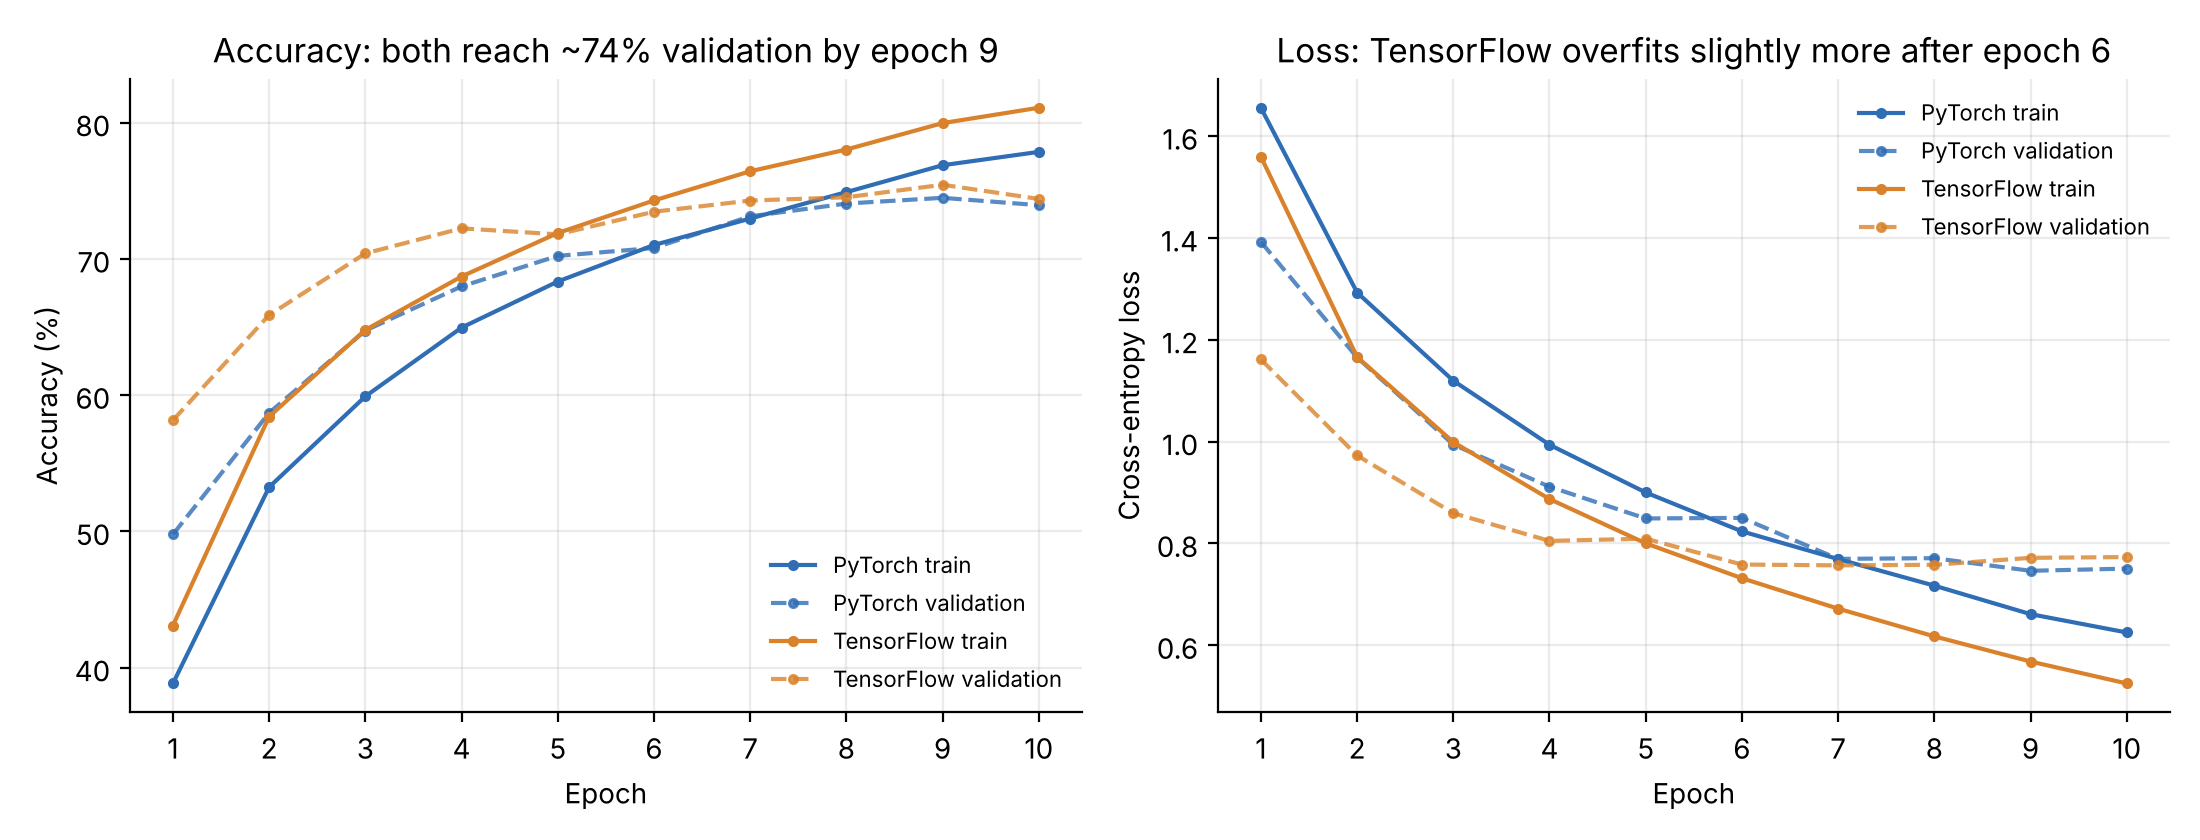
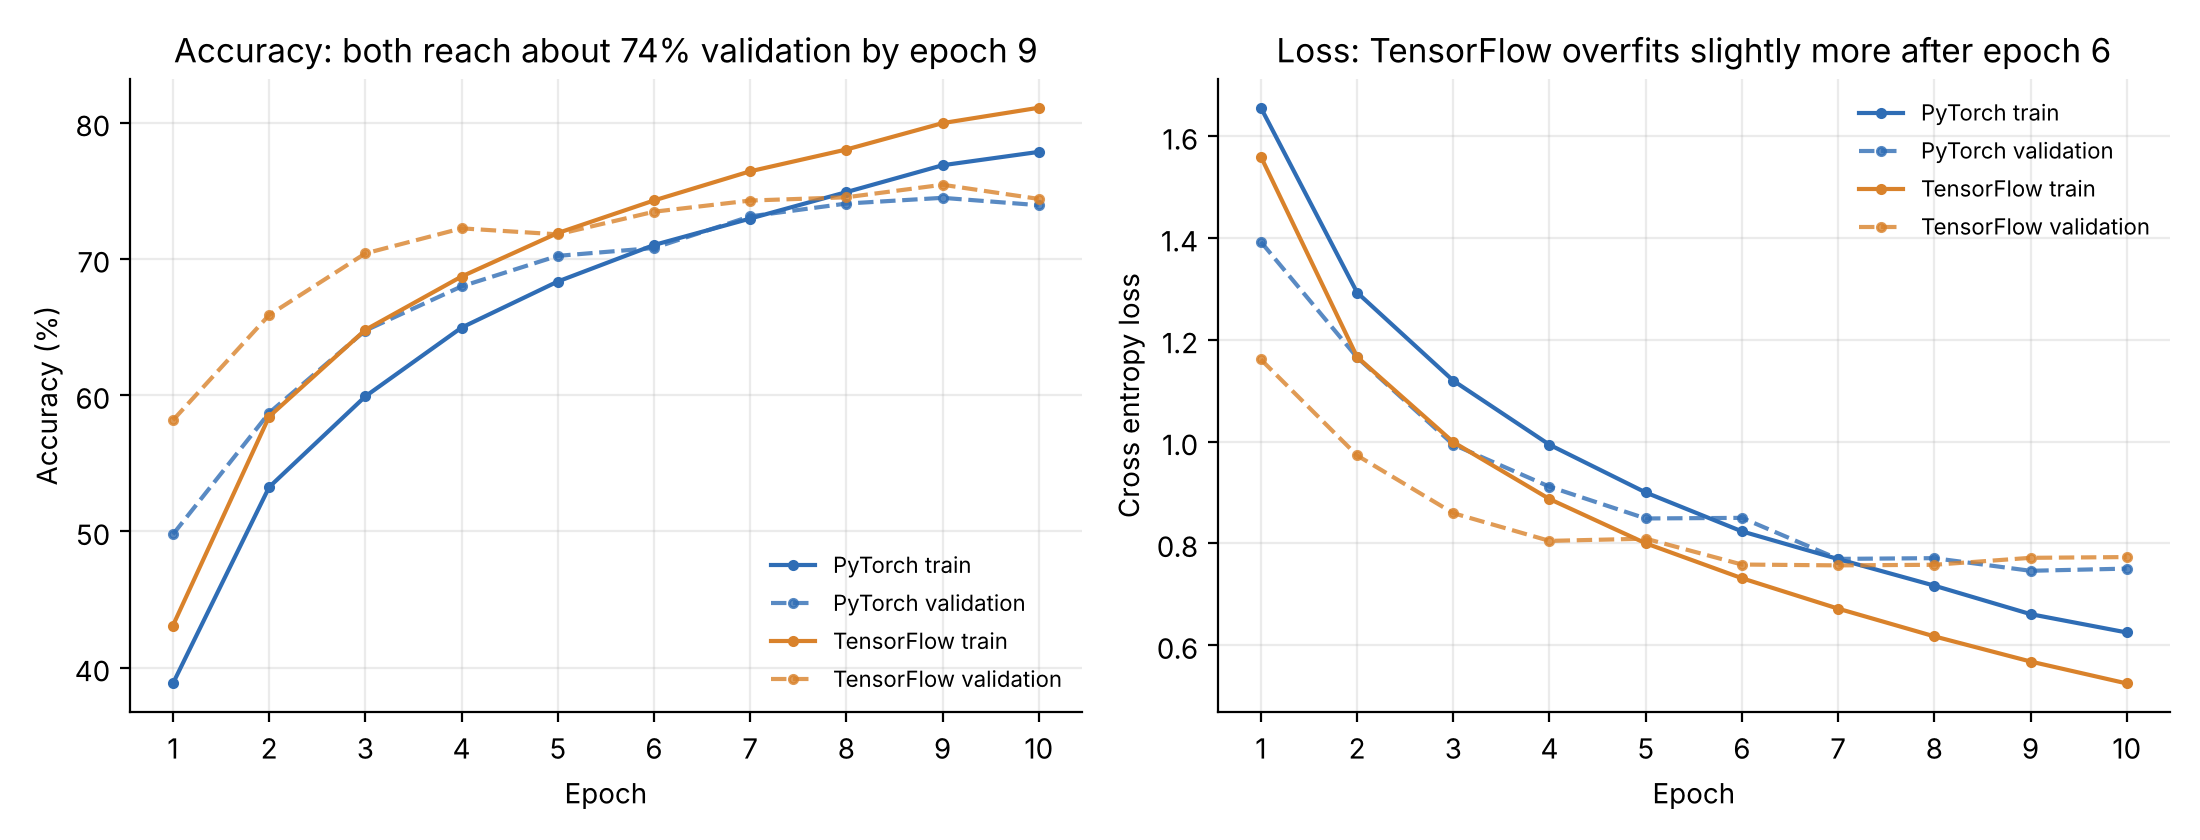
Update figures and README wording
Claude-Session: https://claude.ai/code/session_01TWynGrKMhLkhfSYApiELXu

Changed region(s): [[0.0927, 0.031, 0.4636, 0.0929], [0.4945, 0.3405, 0.5255, 0.619]]

diff --git a/README.md b/README.md
@@ -27,10 +27,10 @@ data split (45,000 / 5,000 / 10,000), optimizer (Adam, lr 0.001), batch size 64 
 
 - `notebooks/CCA2_PyTorch_CIFAR10.ipynb` – PyTorch implementation
 - `notebooks/CCA2_TensorFlow_CIFAR10.ipynb` – TensorFlow / Keras implementation
-- `results/` – raw results from each run (per-epoch history, timings, test predictions)
+- `results/` – raw results from each run (history for every epoch, timings, test predictions)
 - `figures/` – training output screenshots and comparison plots
 
 ## How to run
 
 Open a notebook in Google Colab, choose **Runtime → Change runtime type → T4 GPU**, then **Runtime → Run all**.
-Each run takes about 5–15 minutes and downloads a `results_*.json` file at the end.
+Each run takes about 5 to 15 minutes and downloads a `results_*.json` file at the end.
